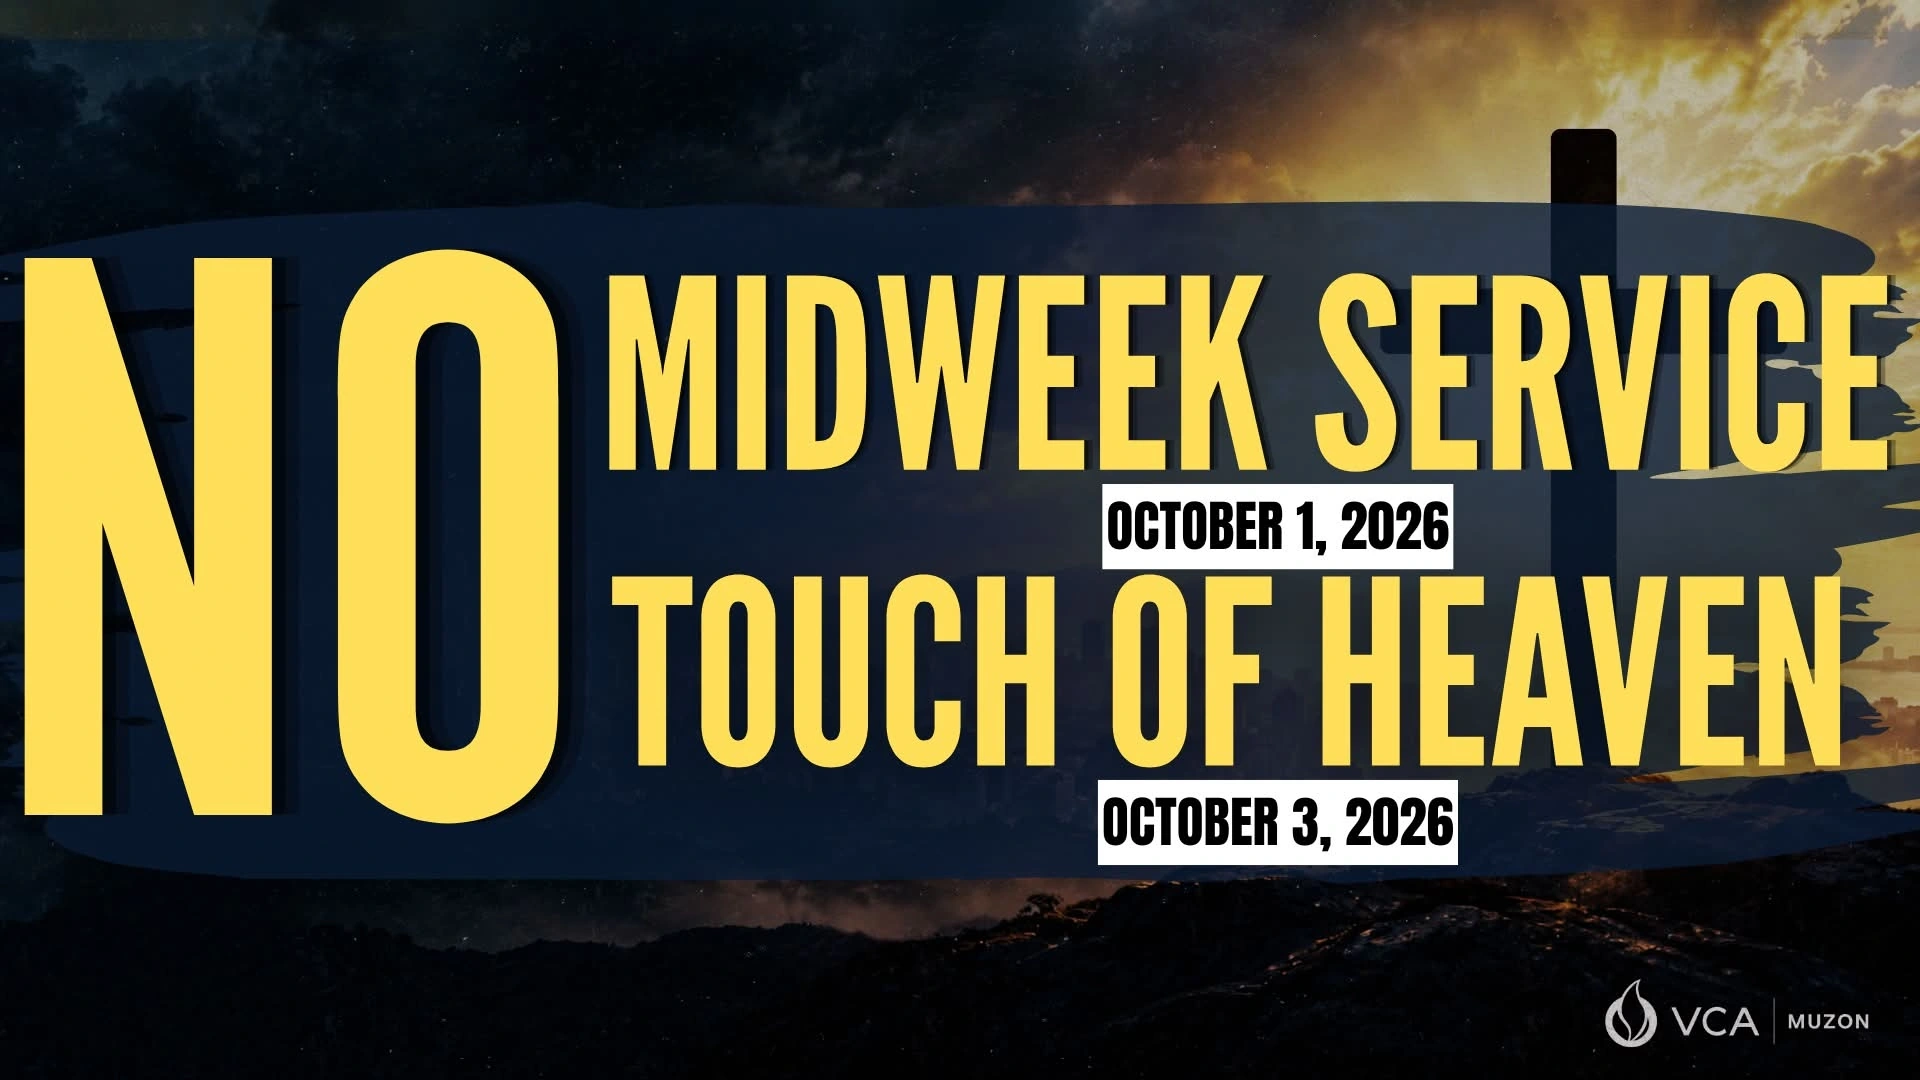
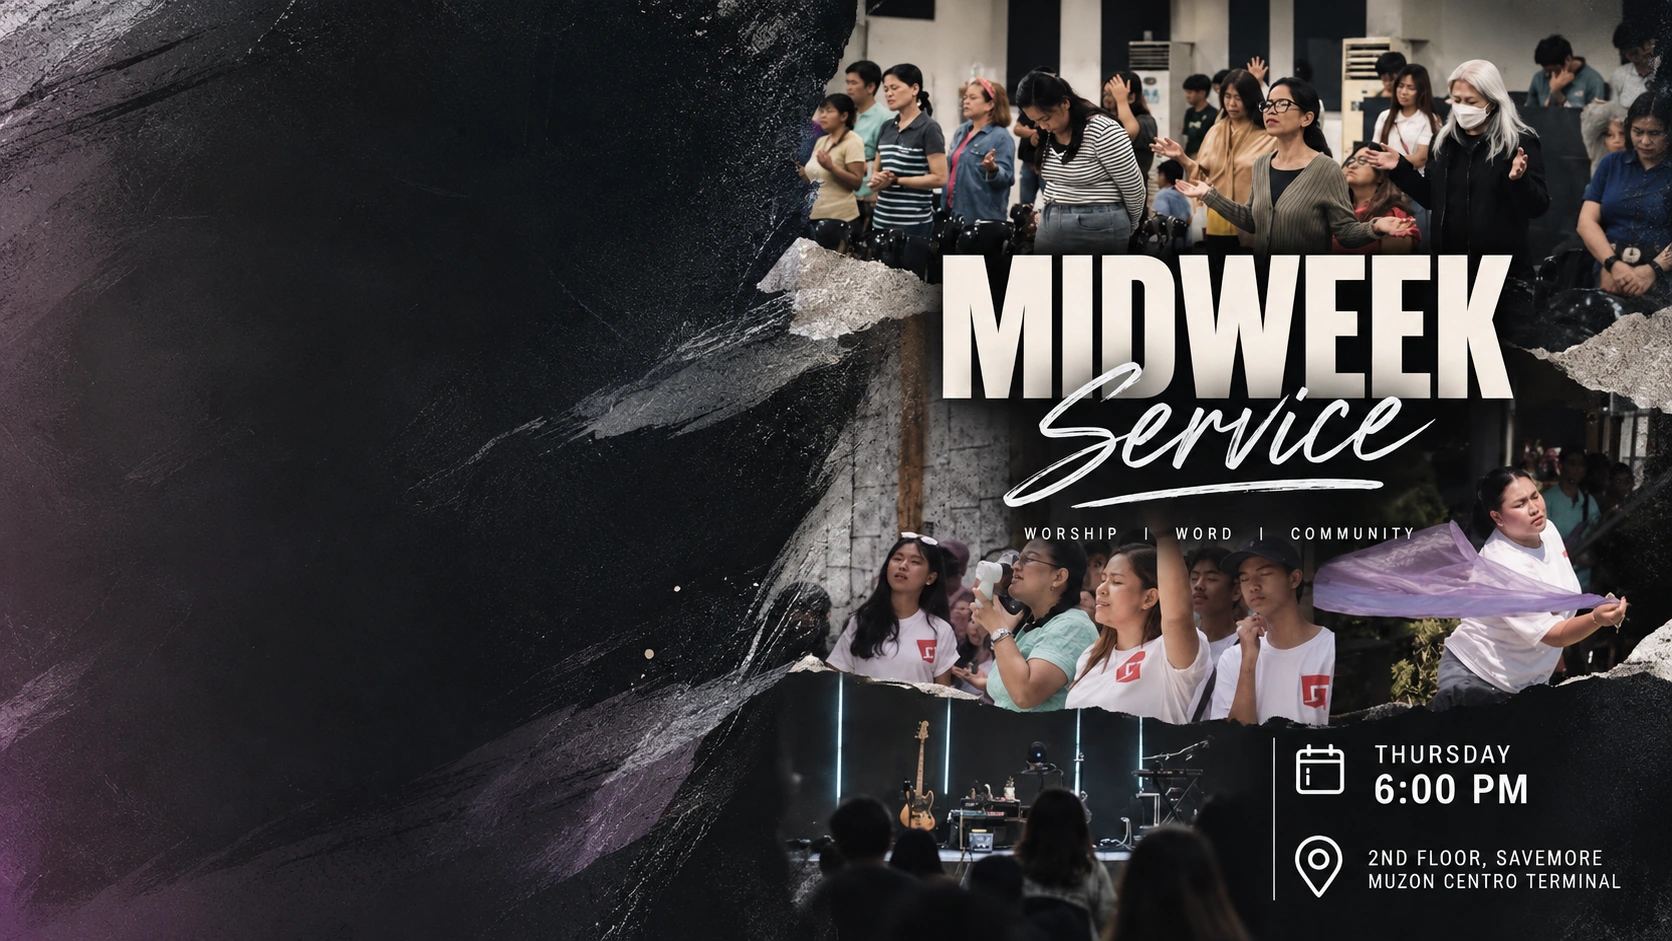
Promote latest UAT updates to production

diff --git a/events.html b/events.html
@@ -77,22 +77,6 @@
         <section class="events-section" aria-labelledby="upcoming-events-title">
             <h2 class="center-heading" id="upcoming-events-title">Upcoming Events</h2>
             <div class="events-grid">
-                <!-- Keep events chronological; the first (next upcoming) event uses the featured card class. -->
-                <article class="event-card event-card--featured" aria-labelledby="esther_rising-title">
-                    <div class="event-image">
-                        <img src="assets/events/esther_rising.webp" alt="Esther Rising — National Womens Conference 2026 flyer" width="1306" height="692" loading="lazy" decoding="async">
-                    </div>
-                    <div class="event-content">
-                        <p class="event-date"><span><time datetime="2026-10-01">Oct 1</time>–<time datetime="2026-10-03">3</time></span> <span>Thu–Sat</span></p>
-                        <h3 id="esther_rising-title">National Womens Conference 2026: Esther Rising</h3>
-                        <p>From Hidden to Being Known</p>
-                        <ul class="event-details">
-                            <li><svg viewBox="0 0 24 24" fill="none" stroke="currentColor" stroke-width="1.6" aria-hidden="true" focusable="false"><circle cx="12" cy="12" r="9"/><path d="M12 7v5l3 2"/></svg><span>10:00AM - 5:00PM</span></li>
-                            <li><svg viewBox="0 0 24 24" fill="none" stroke="currentColor" stroke-width="1.6" aria-hidden="true" focusable="false"><path d="M4 5h16v5a2 2 0 0 0 0 4v5H4v-5a2 2 0 0 0 0-4Z"/><path d="M15 5v14"/></svg><span>₱850</span></li>
-                            <li><svg viewBox="0 0 24 24" fill="none" stroke="currentColor" stroke-width="1.6" aria-hidden="true" focusable="false"><path d="M19 10c0 5-7 11-7 11S5 15 5 10a7 7 0 0 1 14 0Z"/><circle cx="12" cy="10" r="2"/></svg><span>VCA Starmall</span></li>
-                        </ul>
-                    </div>
-                </article>
 
                 <article class="event-card" aria-labelledby="men-of-victory-title">
                     <div class="event-image">
@@ -105,6 +89,44 @@
                         <ul class="event-details">
                             <li><svg viewBox="0 0 24 24" fill="none" stroke="currentColor" stroke-width="1.6" aria-hidden="true" focusable="false"><circle cx="12" cy="12" r="9"/><path d="M12 7v5l3 2"/></svg><span>6:00PM</span></li>
                             <li><svg viewBox="0 0 24 24" fill="none" stroke="currentColor" stroke-width="1.6" aria-hidden="true" focusable="false"><path d="M19 10c0 5-7 11-7 11S5 15 5 10a7 7 0 0 1 14 0Z"/><circle cx="12" cy="10" r="2"/></svg><span>VCA Sapang Palay</span></li>
+                        </ul>
+
+                    </div>
+                </article>
+
+                <article class="event-card" aria-labelledby="young-couple-title">
+                    <div class="event-image">
+                        <img src="assets/events/young-couple.webp" alt="Young Couple Fellowship flyer" width="1672" height="941" loading="lazy" decoding="async">
+                    </div>
+                    <div class="event-content">
+                        <p class="event-date"><time datetime="2026-10-18">Oct 18</time> <span>Sun</span></p>
+                        <h3 id="young-couple-title">Young Couple Fellowship</h3>
+                        <p>
+                            RICH IN LOVE: Honoring God with Your Shared Finances<br>
+                            Young Couples, tara! 👫❤ Let’s come together for a night of fellowship, food, and growing together in Christ.<br>
+                            Let’s eat, fellowship, and grow together!
+                        </p>
+                        <ul class="event-details">
+                            <li><svg viewBox="0 0 24 24" fill="none" stroke="currentColor" stroke-width="1.6" aria-hidden="true" focusable="false"><circle cx="12" cy="12" r="9"/><path d="M12 7v5l3 2"/></svg><span>6:30PM | After the 4:30 PM Service</span></li>
+                            <li><svg viewBox="0 0 24 24" fill="none" stroke="currentColor" stroke-width="1.6" aria-hidden="true" focusable="false"><path d="M19 10c0 5-7 11-7 11S5 15 5 10a7 7 0 0 1 14 0Z"/><circle cx="12" cy="10" r="2"/></svg><span>VCA Muzon</span></li>
+                        </ul>
+
+                    </div>
+                </article>
+
+                <article class="event-card" aria-labelledby="encounter-god-retreat-title">
+                    <div class="event-image">
+                        <img src="assets/events/egr.webp" alt="Encounter God Retreat" width="1920" height="1080" loading="lazy" decoding="async">
+                    </div>
+                    <div class="event-content">
+                        <p class="event-date"><time datetime="2026-11-02">Nov 2</time> <span>Mon</span></p>
+                        <h3 id="encounter-god-retreat-title">Encounter God Retreat</h3>
+                        <p>
+                            Step away from the noise, draw closer to God, and experience a day of worship, reflection, and renewal at the Encounter God Retreat.
+                        </p>
+                        <ul class="event-details">
+                            <li><svg viewBox="0 0 24 24" fill="none" stroke="currentColor" stroke-width="1.6" aria-hidden="true" focusable="false"><circle cx="12" cy="12" r="9"/><path d="M12 7v5l3 2"/></svg><span>7:00AM</span></li>
+                            <li><svg viewBox="0 0 24 24" fill="none" stroke="currentColor" stroke-width="1.6" aria-hidden="true" focusable="false"><path d="M19 10c0 5-7 11-7 11S5 15 5 10a7 7 0 0 1 14 0Z"/><circle cx="12" cy="10" r="2"/></svg><span>VCA Muzon</span></li>
                         </ul>
 
                     </div>

diff --git a/preachings.html b/preachings.html
@@ -81,12 +81,12 @@
             <div class="featured-preaching-layout">
                 <div class="video-wrapper">
                     <a
-                    href="https://www.youtube.com/live/c_okddqPEhk?si=aW9LUi4zXe3tG0Cv"
+                    href="https://www.youtube.com/live/1G8fraOdpG4?si=NiJt-xo6vJ0hixVe"
                     target="_blank"
                     rel="noopener noreferrer"
                     class="video-link">
-                        <img src="assets/preachings/092726.webp"
-                        alt="JESUS IS STILL AND ALWAYS THE ANSWER — WEEK 3">
+                        <img src="assets/preachings/100426.webp"
+                        alt="THE WAR AGAINST YOUR YES">
                         <div class="play-button">
                             ▶
                         </div>
@@ -94,15 +94,13 @@
                 </div>
 
                 <div class="featured-preaching-content">
-                    <h3>JESUS IS STILL AND ALWAYS THE ANSWER — WEEK 3</h3>
+                    <h3>THE WAR AGAINST YOUR YES</h3>
                     <p class="preaching-meta">
-                        PTR. Boaz Crescini<br>
-                        <time datetime="2026-09-27">Sep 27, 2026</time>
+                        PTR. Sharrah Gervais<br>
+                        <time datetime="2026-10-04">Oct 4, 2026</time>
                     </p>            
                     <p>
-                        When life feels uncertain and the future seems unclear, remember that God still has a plan. Even in seasons of waiting, there is hope in His presence and purpose in His promises.<br>
-                        Come and be reminded that our hope and future are found in Him!<br>
-                        <i>Jeremiah 29:11–13</i>
+                        What’s fighting against your YES to God?
                     </p>       
                 </div>
             </div>            
@@ -116,6 +114,23 @@
             </div>
 
             <div class="preachings-grid">
+
+                <div class="preaching-card">
+                    <a
+                        href="https://www.youtube.com/live/c_okddqPEhk?si=aW9LUi4zXe3tG0Cv"
+                        target="_blank"
+                        rel="noopener noreferrer">
+                        <div class="preaching-thumb">
+                            <img
+                                src="assets/preachings/092726.webp"
+                                alt="JESUS IS STILL AND ALWAYS THE ANSWER — WEEK 3">
+                            <span>2:05:15</span>
+                        </div>
+
+                        <h3>JESUS IS STILL AND ALWAYS THE ANSWER — WEEK 3</h3>
+                        <p>PTR. Boaz Crescini<br><time datetime="2026-09-27">September 27, 2026</time></p>
+                    </a>
+                </div>
 
                 <div class="preaching-card">
                     <a
@@ -165,23 +180,6 @@
 
                         <h3>To Know Jesus My True Joy</h3>
                         <p>PTR. Boaz Crescini<br><time datetime="2026-09-06">September 6, 2026</time></p>
-                    </a>
-                </div>
-
-                <div class="preaching-card">
-                    <a
-                        href="https://www.youtube.com/live/addbv0RW7_E?si=ID0gBU-vFKLzf1T8"
-                        target="_blank"
-                        rel="noopener noreferrer">
-                        <div class="preaching-thumb">
-                            <img
-                                src="assets/preachings/083026.webp"
-                                alt="Strong in the Great Commission |The Power of Missions: The Church">
-                            <span>2:16:18</span>
-                        </div>
-
-                        <h3>Strong in the Great Commission |The Power of Missions: The Church</h3>
-                        <p>PTR. Boaz Crescini<br><time datetime="2026-08-30">August 30, 2026</time></p>
                     </a>
                 </div>  
 

diff --git a/css/vca_style.css b/css/vca_style.css
@@ -4800,8 +4800,6 @@ body.page-fade-out {
 
 
 
-
-
 @media (max-width: 768px) {
   .mvv-section {
     width: min(100% - 36px, 980px);
@@ -5261,9 +5259,6 @@ body.page-fade-out {
 
 
 
-
-
-
   .about-preview,
   .service-table,
   .feature-section,
@@ -5458,7 +5453,6 @@ button:focus-visible,
   position: relative;
   z-index: 2;
 }
-
 
 
 @media (min-width: 769px) {
@@ -6057,11 +6051,11 @@ button:focus-visible,
 }
 
 /* =====================================
-   EVENTS - FEATURED + TWO SUPPORTING EVENTS
+   EVENTS - CHRONOLOGICAL GRID
 ===================================== */
 
 .events-section {
-  width: min(100% - 48px, 1180px);
+  width: min(100% - 48px, 1100px);
   margin: clamp(52px, 7vw, 84px) auto clamp(64px, 8vw, 96px);
 }
 
@@ -6088,11 +6082,26 @@ button:focus-visible,
   box-shadow: 0 12px 28px rgba(35, 59, 130, 0.10);
 }
 
-.event-card--featured {
-  grid-column: 1 / -1;
-  display: grid;
-  grid-template-columns: minmax(0, 1.1fr) minmax(0, 1fr);
-  border-top: 4px solid var(--gold);
+@media (hover: hover) and (pointer: fine) {
+  .event-card {
+    transition: transform 250ms ease, box-shadow 250ms ease, border-color 250ms ease;
+  }
+
+  .event-card:hover {
+    transform: translateY(-3px);
+    box-shadow: 0 14px 32px rgba(35, 59, 130, 0.14);
+    border-color: rgba(35, 59, 130, 0.16);
+  }
+}
+
+@media (prefers-reduced-motion: reduce) {
+  .event-card {
+    transition: none;
+  }
+
+  .event-card:hover {
+    transform: none;
+  }
 }
 
 .event-image {
@@ -6111,11 +6120,6 @@ button:focus-visible,
   height: 100%;
   object-fit: contain;
   object-position: center;
-}
-
-.event-card--featured .event-image {
-  aspect-ratio: auto;
-  max-height: none;
 }
 
 .event-content {
@@ -6137,10 +6141,6 @@ button:focus-visible,
   color: var(--vca-navy-dark);
   font-size: clamp(1.2rem, 1.7vw, 1.45rem);
   line-height: 1.25;
-}
-
-.event-card--featured h3 {
-  font-size: clamp(1.5rem, 2.4vw, 2rem);
 }
 
 .event-content p {
@@ -6200,18 +6200,19 @@ button:focus-visible,
   font-size: 0.9rem;
 }
 
-@media (max-width: 1000px) {
+@media (max-width: 1100px) {
   .events-section {
-    width: min(100% - 40px, 860px);
+    width: calc(100% - 40px);
   }
 
-  .event-card--featured {
-    display: flex;
+}
+
+@media (max-width: 700px) {
+  .events-grid {
+    grid-template-columns: minmax(0, 1fr);
+    gap: 24px;
   }
 
-  .event-card--featured .event-image {
-    aspect-ratio: 16 / 9;
-  }
 }
 
 @media (max-width: 600px) {
@@ -6225,11 +6226,6 @@ button:focus-visible,
     font-size: clamp(1.8rem, 8vw, 2.15rem);
   }
 
-  .events-grid {
-    grid-template-columns: minmax(0, 1fr);
-    gap: 24px;
-  }
-
   .event-card {
     border-radius: 14px;
   }
@@ -6238,9 +6234,6 @@ button:focus-visible,
     padding: 20px;
   }
 
-  .event-card--featured h3 {
-    font-size: 1.35rem;
-  }
 }
 
 @media (max-width: 380px) {

diff --git a/index.html b/index.html
@@ -263,11 +263,9 @@
                         loading="lazy"
                     >
                     <div class="announcement-content">
-                        <h3>Youth Service</h3>
+                        <h3>ANOTHER SUNDAY, ANOTHER REASON TO PRAISE!</h3>
                         <p>
-                           Sundays with RG hit different<br>
-                           Bring your friends and come as you are!<br>
-                           SEE YOU RG!
+                           Your seat is waiting, RG. See you this Sunday!
                         </p>
                     </div>
                 </div>
@@ -284,29 +282,13 @@
                         loading="lazy"
                     >
                     <div class="announcement-content">
-                        <h3></h3>
+                        <h3>Midweek Service</h3>
                         <p>
+                            Pause. Pray. Be renewed. Join us every Thursday at 6:00 PM for worship, the Word, and community at VCA Muzon.
                         </p>
                     </div>
                 </div>
 
-                <!-- SLIDE -->
-
-                <div class="announcement-slide">
-                    <img
-                        src="assets/home/carousel/guest_speaker.webp"
-                        alt="Guest Speaker"
-                        class="announcement-image"
-                        width="1200"
-                        height="675"
-                        loading="lazy"
-                    >
-                    <div class="announcement-content">
-                        <h3></h3>
-                        <p>
-                        </p>
-                    </div>
-                </div>
 
                 <!-- NEXT BUTTON -->
 

diff --git a/contact.html b/contact.html
@@ -128,7 +128,7 @@
 
             <div class="map-container">
                 <iframe
-                    src="https://www.google.com/maps?q=VCA%20Muzon&output=embed"
+                    src="https://www.google.com/maps?q=VCA%20Muzon&amp;output=embed"
                     loading="lazy"
                     allowfullscreen
                 >

diff --git a/README.md b/README.md
@@ -1,25 +1,22 @@
-# VCA Muzon Website (UAT)
+# VCA Muzon Website (Production)
 
-This repository contains the User Acceptance Testing (UAT) version of the
+This repository contains the production version of the
 Victory Churches of Asia - Muzon website.
 
-Purpose:
-- Review new features
-- Pastor approval
-- Testing before production
+Deployment target:
+https://yzcreativetech.github.io/vca-muzon-website/
 
 Production website:
 https://vcamuzon.org/
 
-This is the canonical public production identity. This repository is the separate
-UAT environment used to review changes before production promotion.
+This is the canonical public production identity.
 
 ## Development workflow
 
-Changes are implemented and reviewed in this UAT repository before approval
-and promotion to the production website. Each completed milestone should be
-validated locally, committed with a focused message, pushed to the UAT branch,
-and confirmed through the repository's GitHub Actions checks when available.
+Changes are implemented and approved in the separate UAT repository before
+promotion to this production repository. Validate the promoted files locally,
+remove UAT review markers, and push approved changes to production `main`.
+Confirm the GitHub Pages deployment after publication.
 
 ## Progress
 
